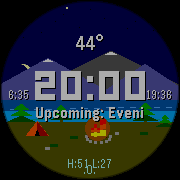
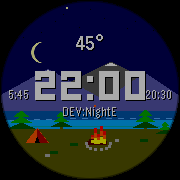
fix: sunrise/sunset pushed below date line, config preserves toggle state
Sunrise/sunset times moved from mid-screen (overlapping time) to
below the date line (ty+60) so they don't crowd the clock.

Config URL fix: settings.showSun=0 was being treated as falsy and
defaulting to 1 when reopening config. Now uses !== undefined check
so 0 (hide) is correctly passed to the config page.

diff --git a/src/pkjs/index.js b/src/pkjs/index.js
@@ -215,8 +215,8 @@ function saveSettings() {
 Pebble.addEventListener('showConfiguration', function () {
   var url = 'https://hobbykitjr.github.io/PebbleCamp/config/index.html' +
     '?zip=' + encodeURIComponent(settings.zipCode) +
-    '&sun=' + (settings.showSun || 1) +
-    '&hilo=' + (settings.showHiLo || 1) +
+    '&sun=' + (settings.showSun !== undefined ? settings.showSun : 1) +
+    '&hilo=' + (settings.showHiLo !== undefined ? settings.showHiLo : 1) +
     '&dev=' + settings.devMode;
   console.log('Opening config: ' + url);
   Pebble.openURL(url);

diff --git a/src/c/main.c b/src/c/main.c
@@ -715,13 +715,13 @@ static void draw_hud(GContext *ctx, GRect b) {
   // Date (smaller font)
   txt(ctx,s_dbuf,f14,GRect(0,ty+44,w,18),GTextAlignmentCenter);
 
-  // Sunrise/sunset times
+  // Sunrise/sunset times (pushed down below time/date)
   if(s_show_sun) {
     snprintf(s_sr,sizeof(s_sr),"%d:%02d",fmt_h(s_d.sr_h),s_d.sr_m);
     snprintf(s_ss,sizeof(s_ss),"%d:%02d",fmt_h(s_d.ss_h),s_d.ss_m);
-    int mid_y=b.size.h/2-5;
-    txt(ctx,s_sr,f14,GRect(8,mid_y,50,18),GTextAlignmentLeft);
-    txt(ctx,s_ss,f14,GRect(w-58,mid_y,50,18),GTextAlignmentRight);
+    int sun_y=ty+60;
+    txt(ctx,s_sr,f14,GRect(8,sun_y,50,18),GTextAlignmentLeft);
+    txt(ctx,s_ss,f14,GRect(w-58,sun_y,50,18),GTextAlignmentRight);
   }
 
   // Hi/Lo temps
